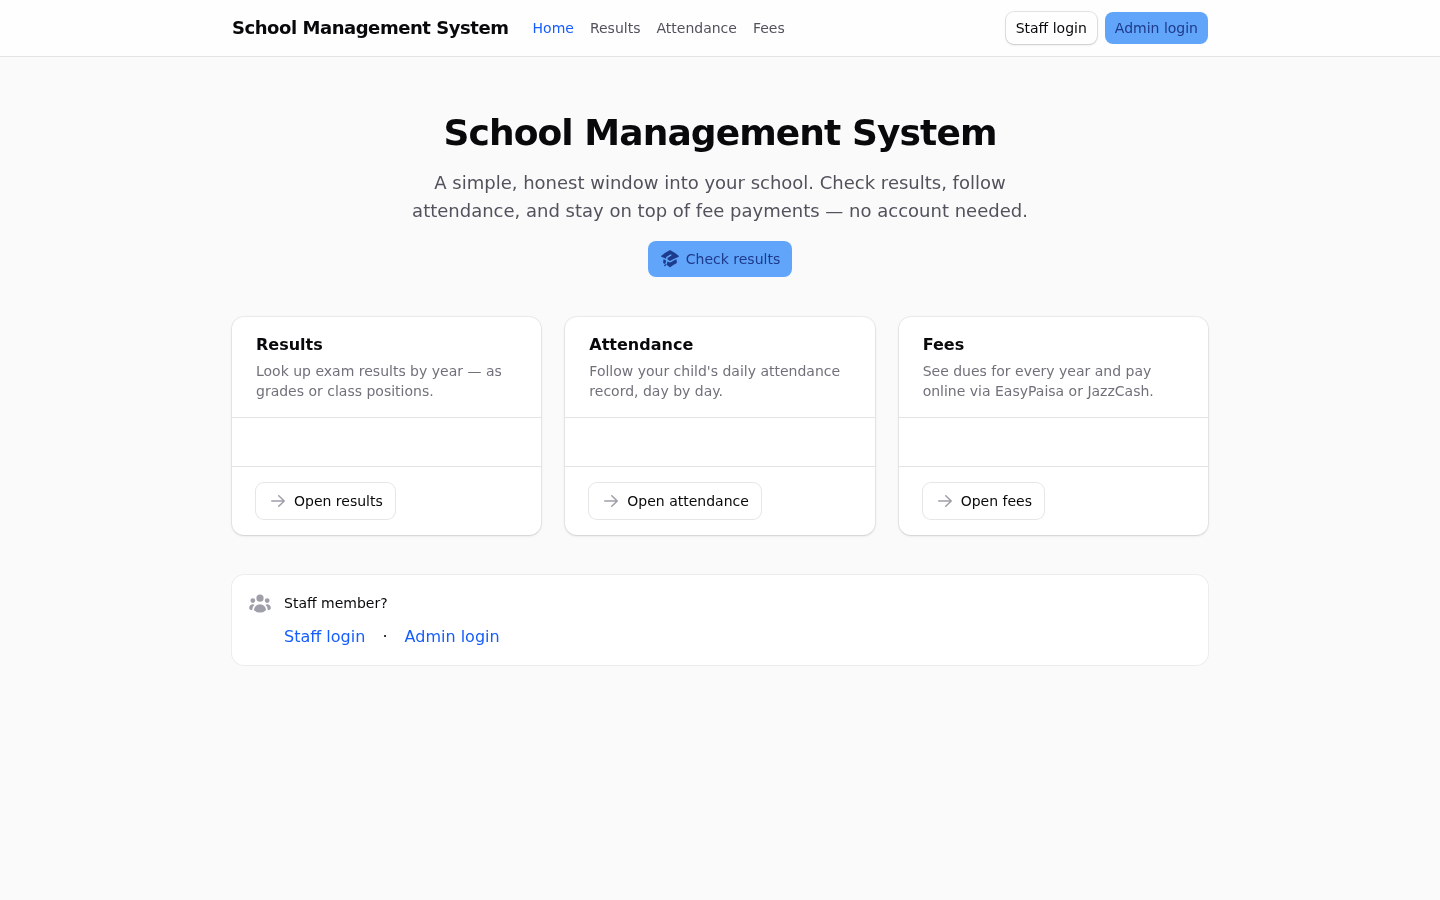
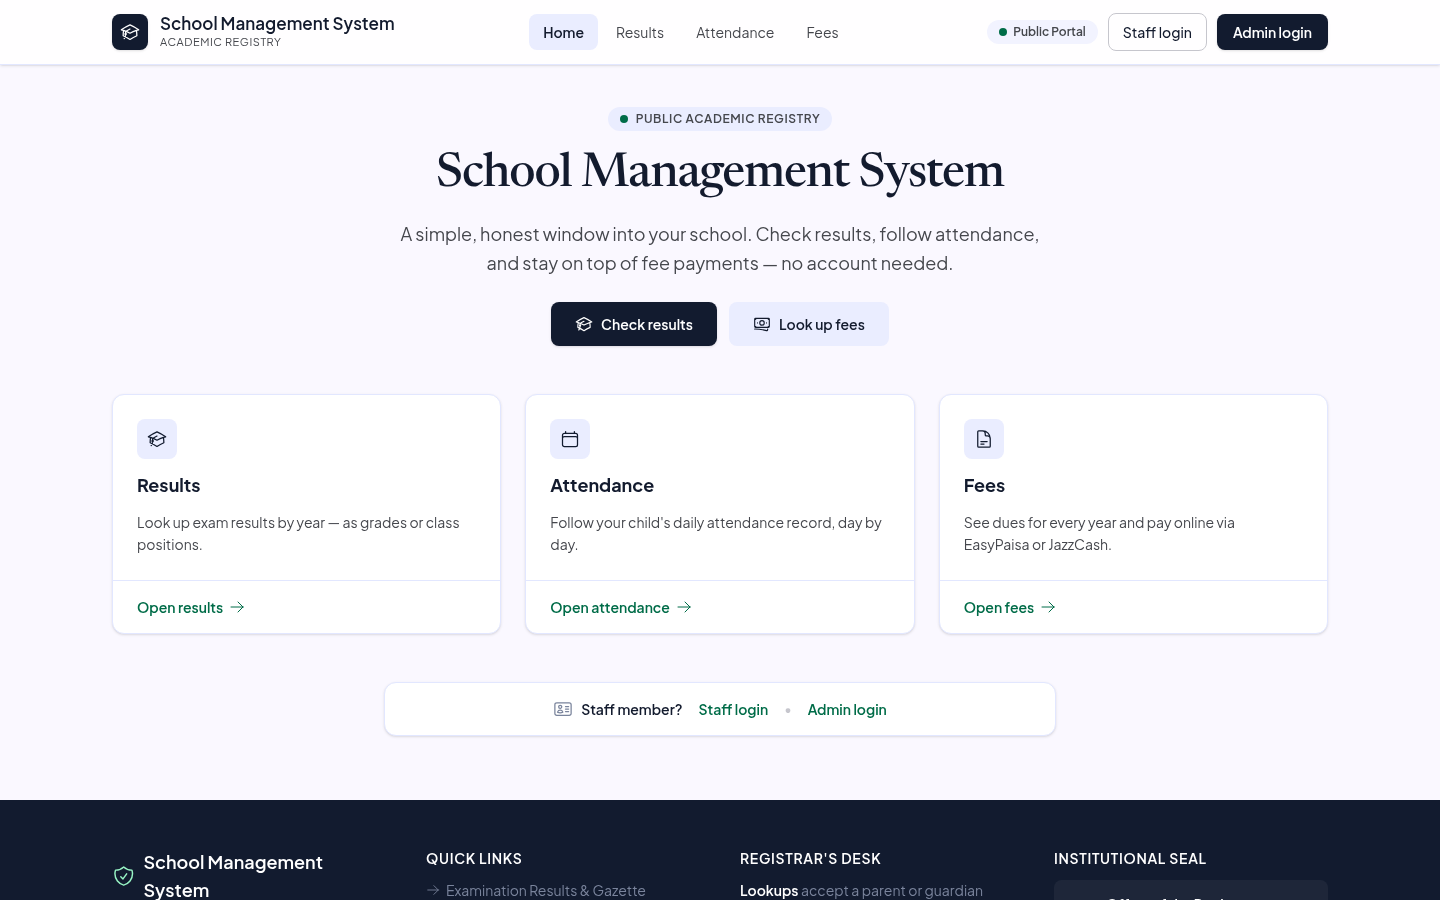
feat: registry design polish from browser verification
- GrNumber::bare() normalises the GR display so registry chips never
  double the stored GR prefix (GR GR194746 -> GR 194746)
- positions view copy explains that subject marks are hidden instead of
  claiming zero published results
- retake public-home/results/fees README screenshots on the new design

diff --git a/resources/views/pages/⚡results.blade.php b/resources/views/pages/⚡results.blade.php
@@ -252,7 +252,7 @@ new #[Layout('layouts::app')] class extends Component {
                                                     Record verified
                                                 </span>
                                                 <span class="rounded bg-tint px-2 py-0.5 font-mono text-xs font-bold tabular text-ink">
-                                                    GR: {{ $student->gr_no }}
+                                                    GR: {{ \App\Support\GrNumber::bare($student->gr_no) }}
                                                 </span>
                                             </div>
                                             <h2 class="text-xl font-bold text-ink">{{ $student->name }}</h2>
@@ -314,11 +314,12 @@ new #[Layout('layouts::app')] class extends Component {
                                 @else
                                     <div class="flex flex-col justify-between rounded-xl bg-mist p-4 shadow-sm md:col-span-2">
                                         <div class="mb-2 flex items-center justify-between text-ink-soft">
-                                            <span class="text-xs font-semibold uppercase tracking-wider">No subject marks on file</span>
+                                            <span class="text-xs font-semibold uppercase tracking-wider">Positions view</span>
                                             <x-portal-icon name="document-text" class="h-5 w-5 text-navy" />
                                         </div>
                                         <p class="text-sm text-ink-soft">
-                                            {{ count($row['results']) }} published result{{ count($row['results']) === 1 ? '' : 's' }} for this student in {{ $year }}.
+                                            Subject marks are hidden in this view — switch
+                                            <span class="font-semibold text-ink">Show as: Grades</span> to see the full breakdown.
                                         </p>
                                     </div>
                                 @endif

diff --git a/resources/views/pages/⚡attendance.blade.php b/resources/views/pages/⚡attendance.blade.php
@@ -152,12 +152,12 @@ new #[Layout('layouts::app')] class extends Component {
                                         </div>
                                         <h2 class="text-xl font-bold text-ink">{{ $student->name }}</h2>
                                         <p class="mt-0.5 text-sm text-ink-soft">
-                                            {{ $student->studentClass?->name ?? '—' }} · GR {{ $student->gr_no }}
+                                            {{ $student->studentClass?->name ?? '—' }} · GR {{ \App\Support\GrNumber::bare($student->gr_no) }}
                                         </p>
                                     </div>
                                 </div>
                                 <span class="rounded-lg border border-haze bg-mist px-3 py-1.5 font-mono text-sm font-bold tabular text-ink">
-                                    GR{{ $student->gr_no }}
+                                    GR{{ \App\Support\GrNumber::bare($student->gr_no) }}
                                 </span>
                             </div>
 

diff --git a/resources/views/receipts/show.blade.php b/resources/views/receipts/show.blade.php
@@ -317,7 +317,7 @@
                 <h2>Official Electronic Settlement Voucher</h2>
                 <p>
                     System-verifiable record ·
-                    Student GR: <strong class="mono tabular">{{ $payment->fee->student->gr_no }}</strong>
+                    Student GR: <strong class="mono tabular">{{ \App\Support\GrNumber::bare($payment->fee->student->gr_no) }}</strong>
                 </p>
             </div>
         </div>
@@ -360,7 +360,7 @@
             <div>
                 <span class="label">Student</span>
                 <span class="value">{{ $payment->fee->student->name }}</span>
-                <span class="gr-chip tabular">GR {{ $payment->fee->student->gr_no }}</span>
+                <span class="gr-chip tabular">GR {{ \App\Support\GrNumber::bare($payment->fee->student->gr_no) }}</span>
             </div>
             <div>
                 <span class="label">Received from</span>

diff --git a/resources/views/pages/⚡fees.blade.php b/resources/views/pages/⚡fees.blade.php
@@ -255,7 +255,7 @@ new #[Layout('layouts::app')] class extends Component {
                                 <div class="flex flex-wrap items-center gap-2.5">
                                     <span class="text-xs font-bold uppercase tracking-widest text-glow">Fee Ledger</span>
                                     <span class="text-steel">•</span>
-                                    <span class="font-mono text-xs font-semibold tabular text-steel">GR {{ $student->gr_no }}</span>
+                                    <span class="font-mono text-xs font-semibold tabular text-steel">GR {{ \App\Support\GrNumber::bare($student->gr_no) }}</span>
                                 </div>
                                 <h2 class="mt-1 text-xl font-bold text-white">{{ $student->name }}</h2>
                                 <span class="mt-0.5 block text-sm text-steel">

diff --git a/app/Support/GrNumber.php b/app/Support/GrNumber.php
@@ -1,0 +1,18 @@
+<?php
+
+declare(strict_types=1);
+
+namespace App\Support;
+
+final class GrNumber
+{
+    /**
+     * Strip a leading "GR" prefix so the registry chip can re-apply
+     * its own canonical formatting without doubling it (e.g. the seed
+     * data stores "GR194746" but a CSV import may store "194746").
+     */
+    public static function bare(?string $grNo): string
+    {
+        return (string) preg_replace('/^\s*GR\s*/i', '', (string) $grNo);
+    }
+}
